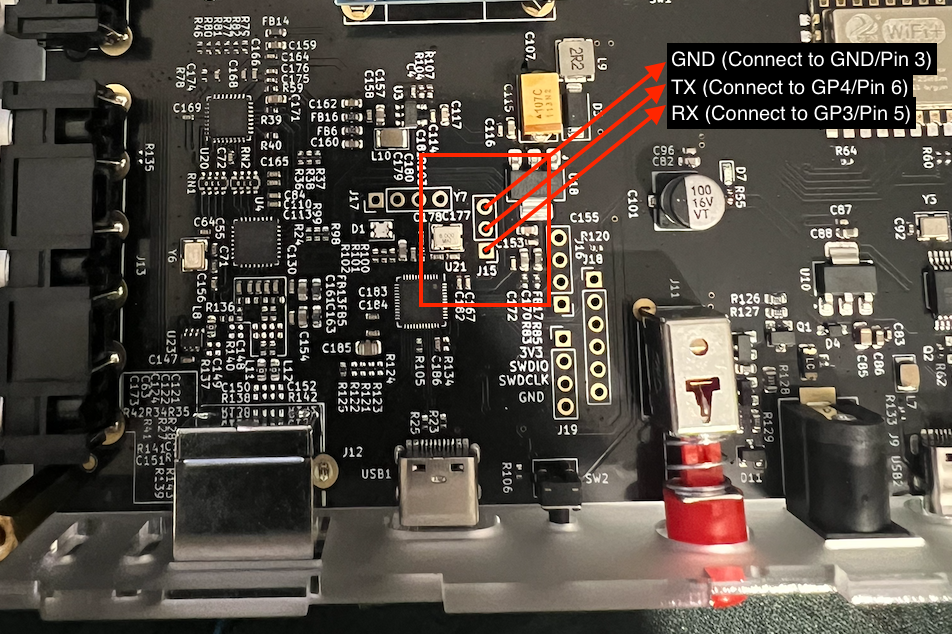
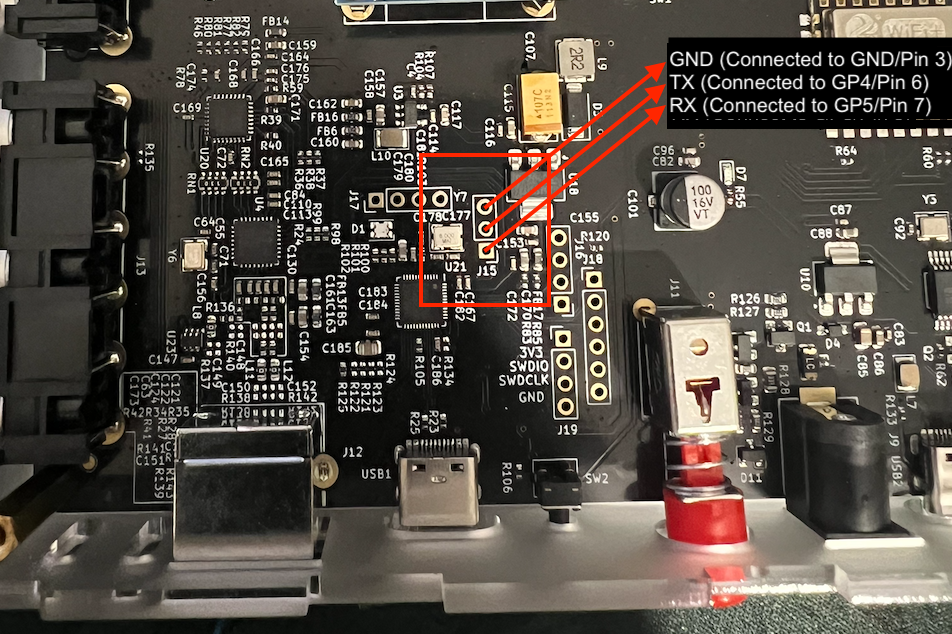
fix(adv): use direct UART output for CLI echo
Replace printf() with DebugUart_SendChar() for character echo and
backspace handling to avoid stdio buffering delay. Characters now
appear immediately while typing instead of only after pressing enter.

Changed region(s): [[0.7006, 0.0599, 1.0, 0.2098]]

diff --git a/GBSC-Pro-Source code/adv-controller/src/adv_cli.c b/GBSC-Pro-Source code/adv-controller/src/adv_cli.c
@@ -191,12 +191,14 @@ void ADVCLI_Task(void)
     else if (ch == 8 && cli_idx > 0)  // Backspace
     {
         cli_idx--;
-        printf("\b \b");
+        DebugUart_SendChar('\b');
+        DebugUart_SendChar(' ');
+        DebugUart_SendChar('\b');
     }
     else if (ch >= 32 && cli_idx < CLI_BUF_SIZE - 1)
     {
         cli_buf[cli_idx++] = ch;
-        printf("%c", ch);
+        DebugUart_SendChar(ch);
     }
 }
 

diff --git a/adv-manager/README.md b/adv-manager/README.md
@@ -63,7 +63,7 @@ Simply flash the **debugprobe_on_pico.uf2** on the Raspberry Pico.
 The **GBS-C Pro** has a connector called **J15**. Looking at the connector as shown in the photo, we need to make the following connections:
 * **1 GND** -> **GND** of the Raspberry Pico (e.g., **Pin 3**, Pin 8, Pin 13, etc.)
 * **2 TX** -> **RX** of the Raspberry Pico (**GP4 / Pin 6**)
-* **3 RX** -> **TX** of the Raspberry Pico (G**P3 / Pin 5**)
+* **3 RX** -> **TX** of the Raspberry Pico (**GP5 / Pin 7**)
 
 Let's start with the hardware modification required for the GBS-C Pro:
 
